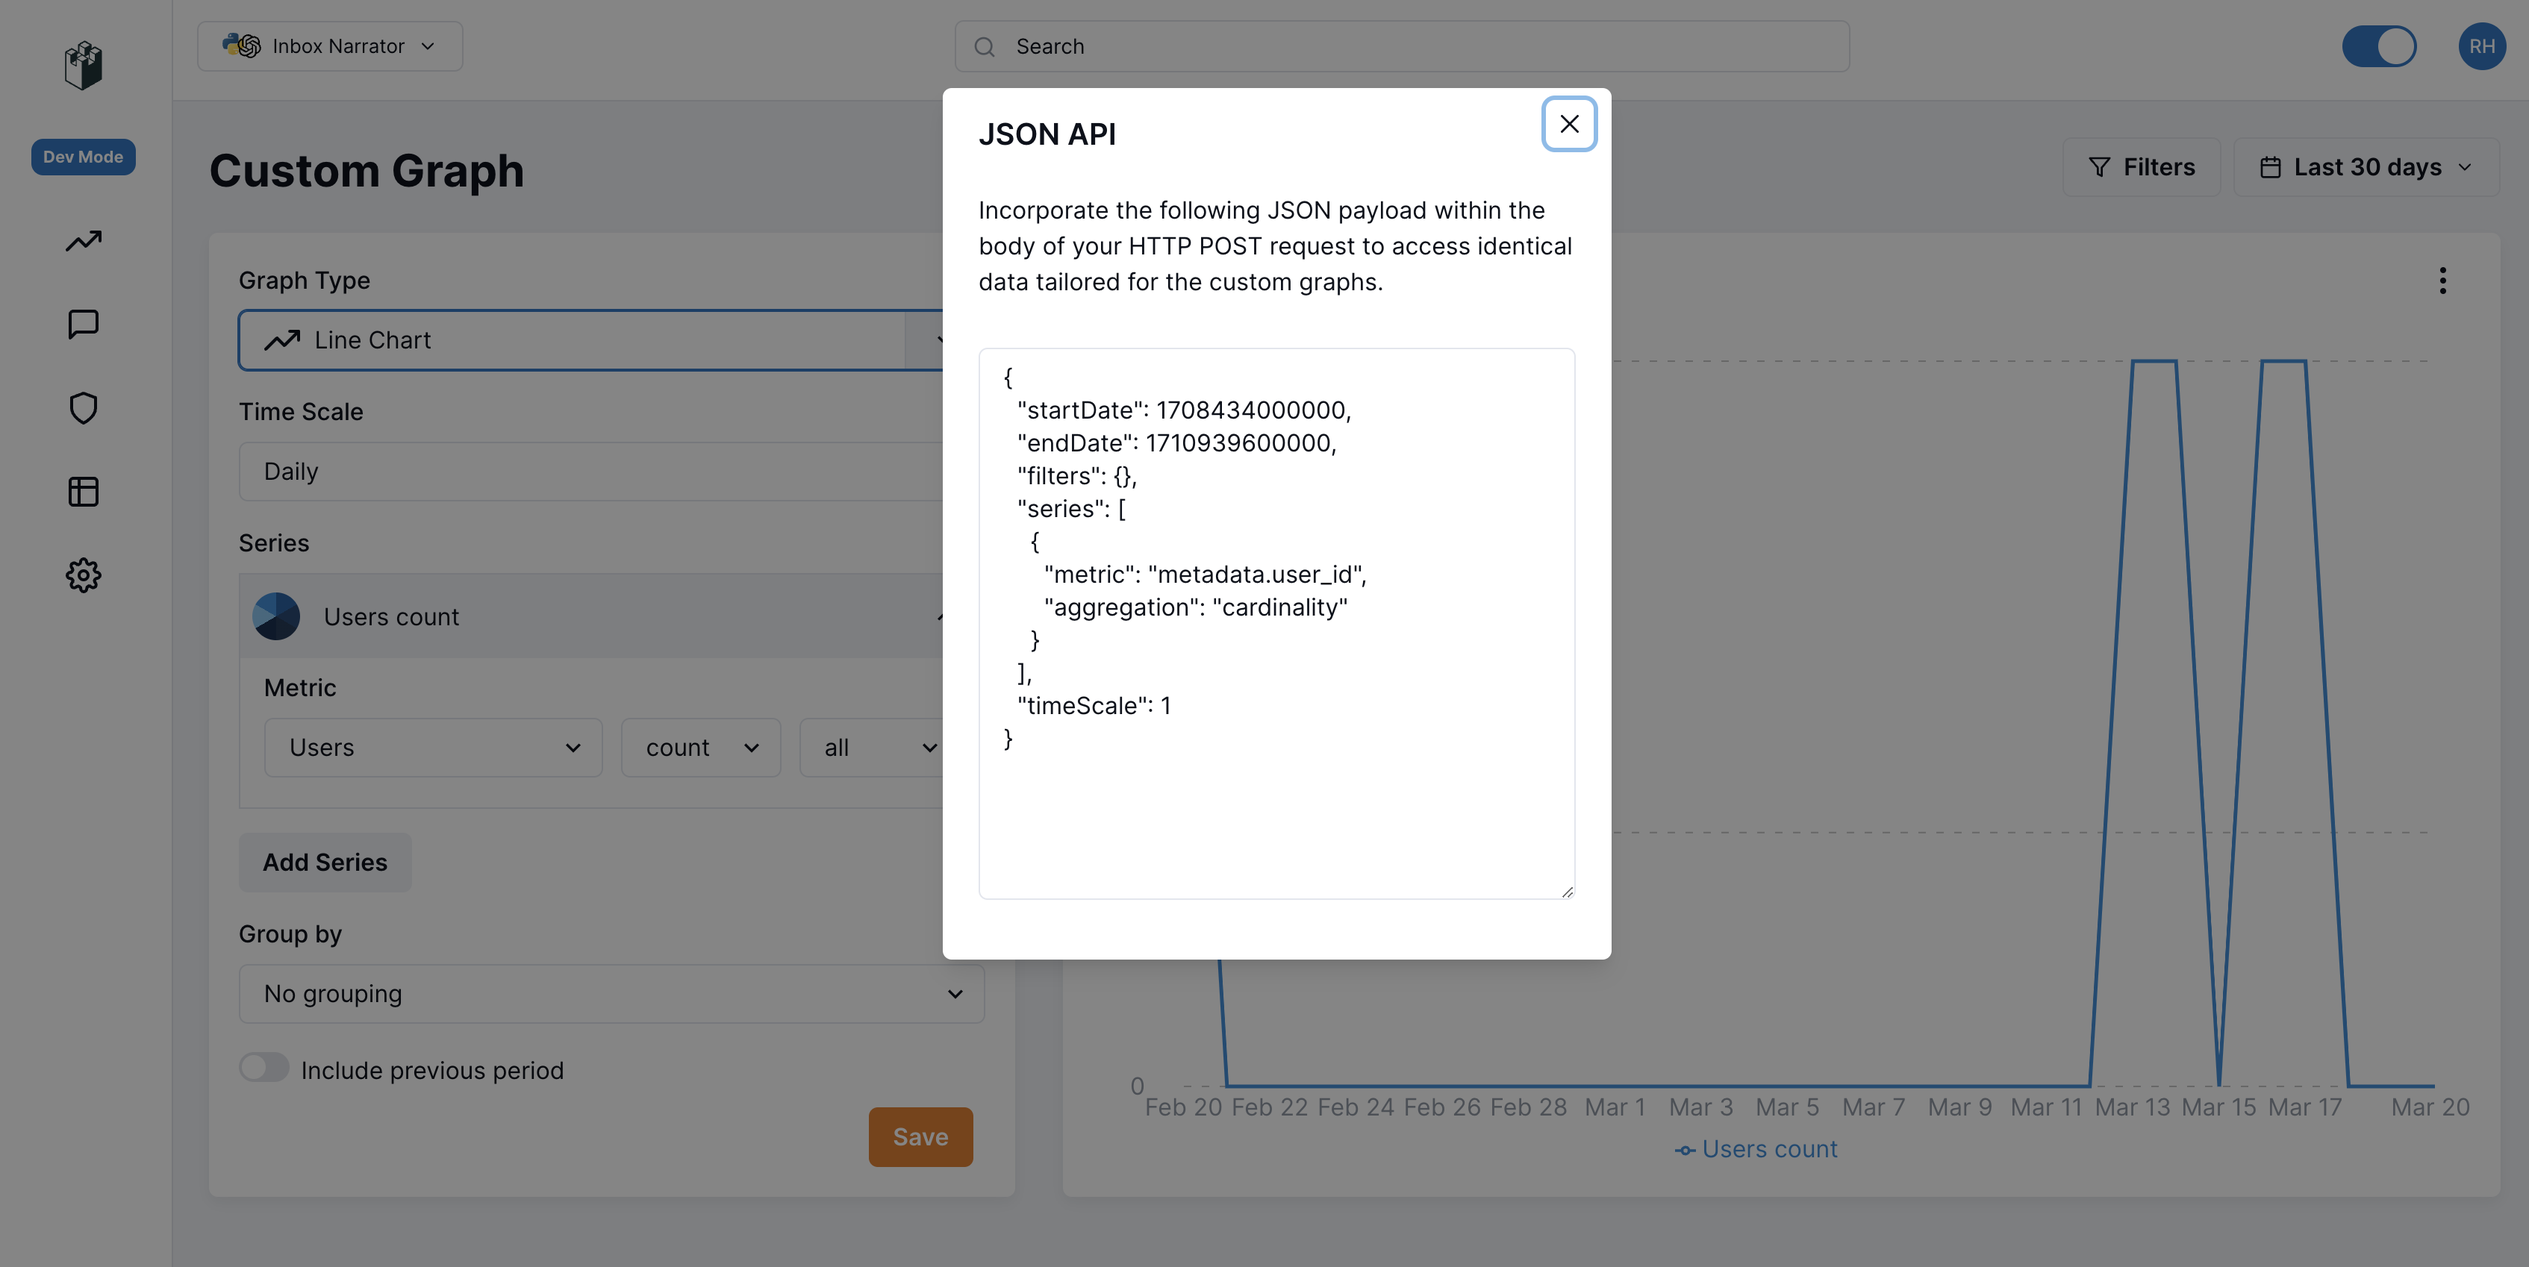
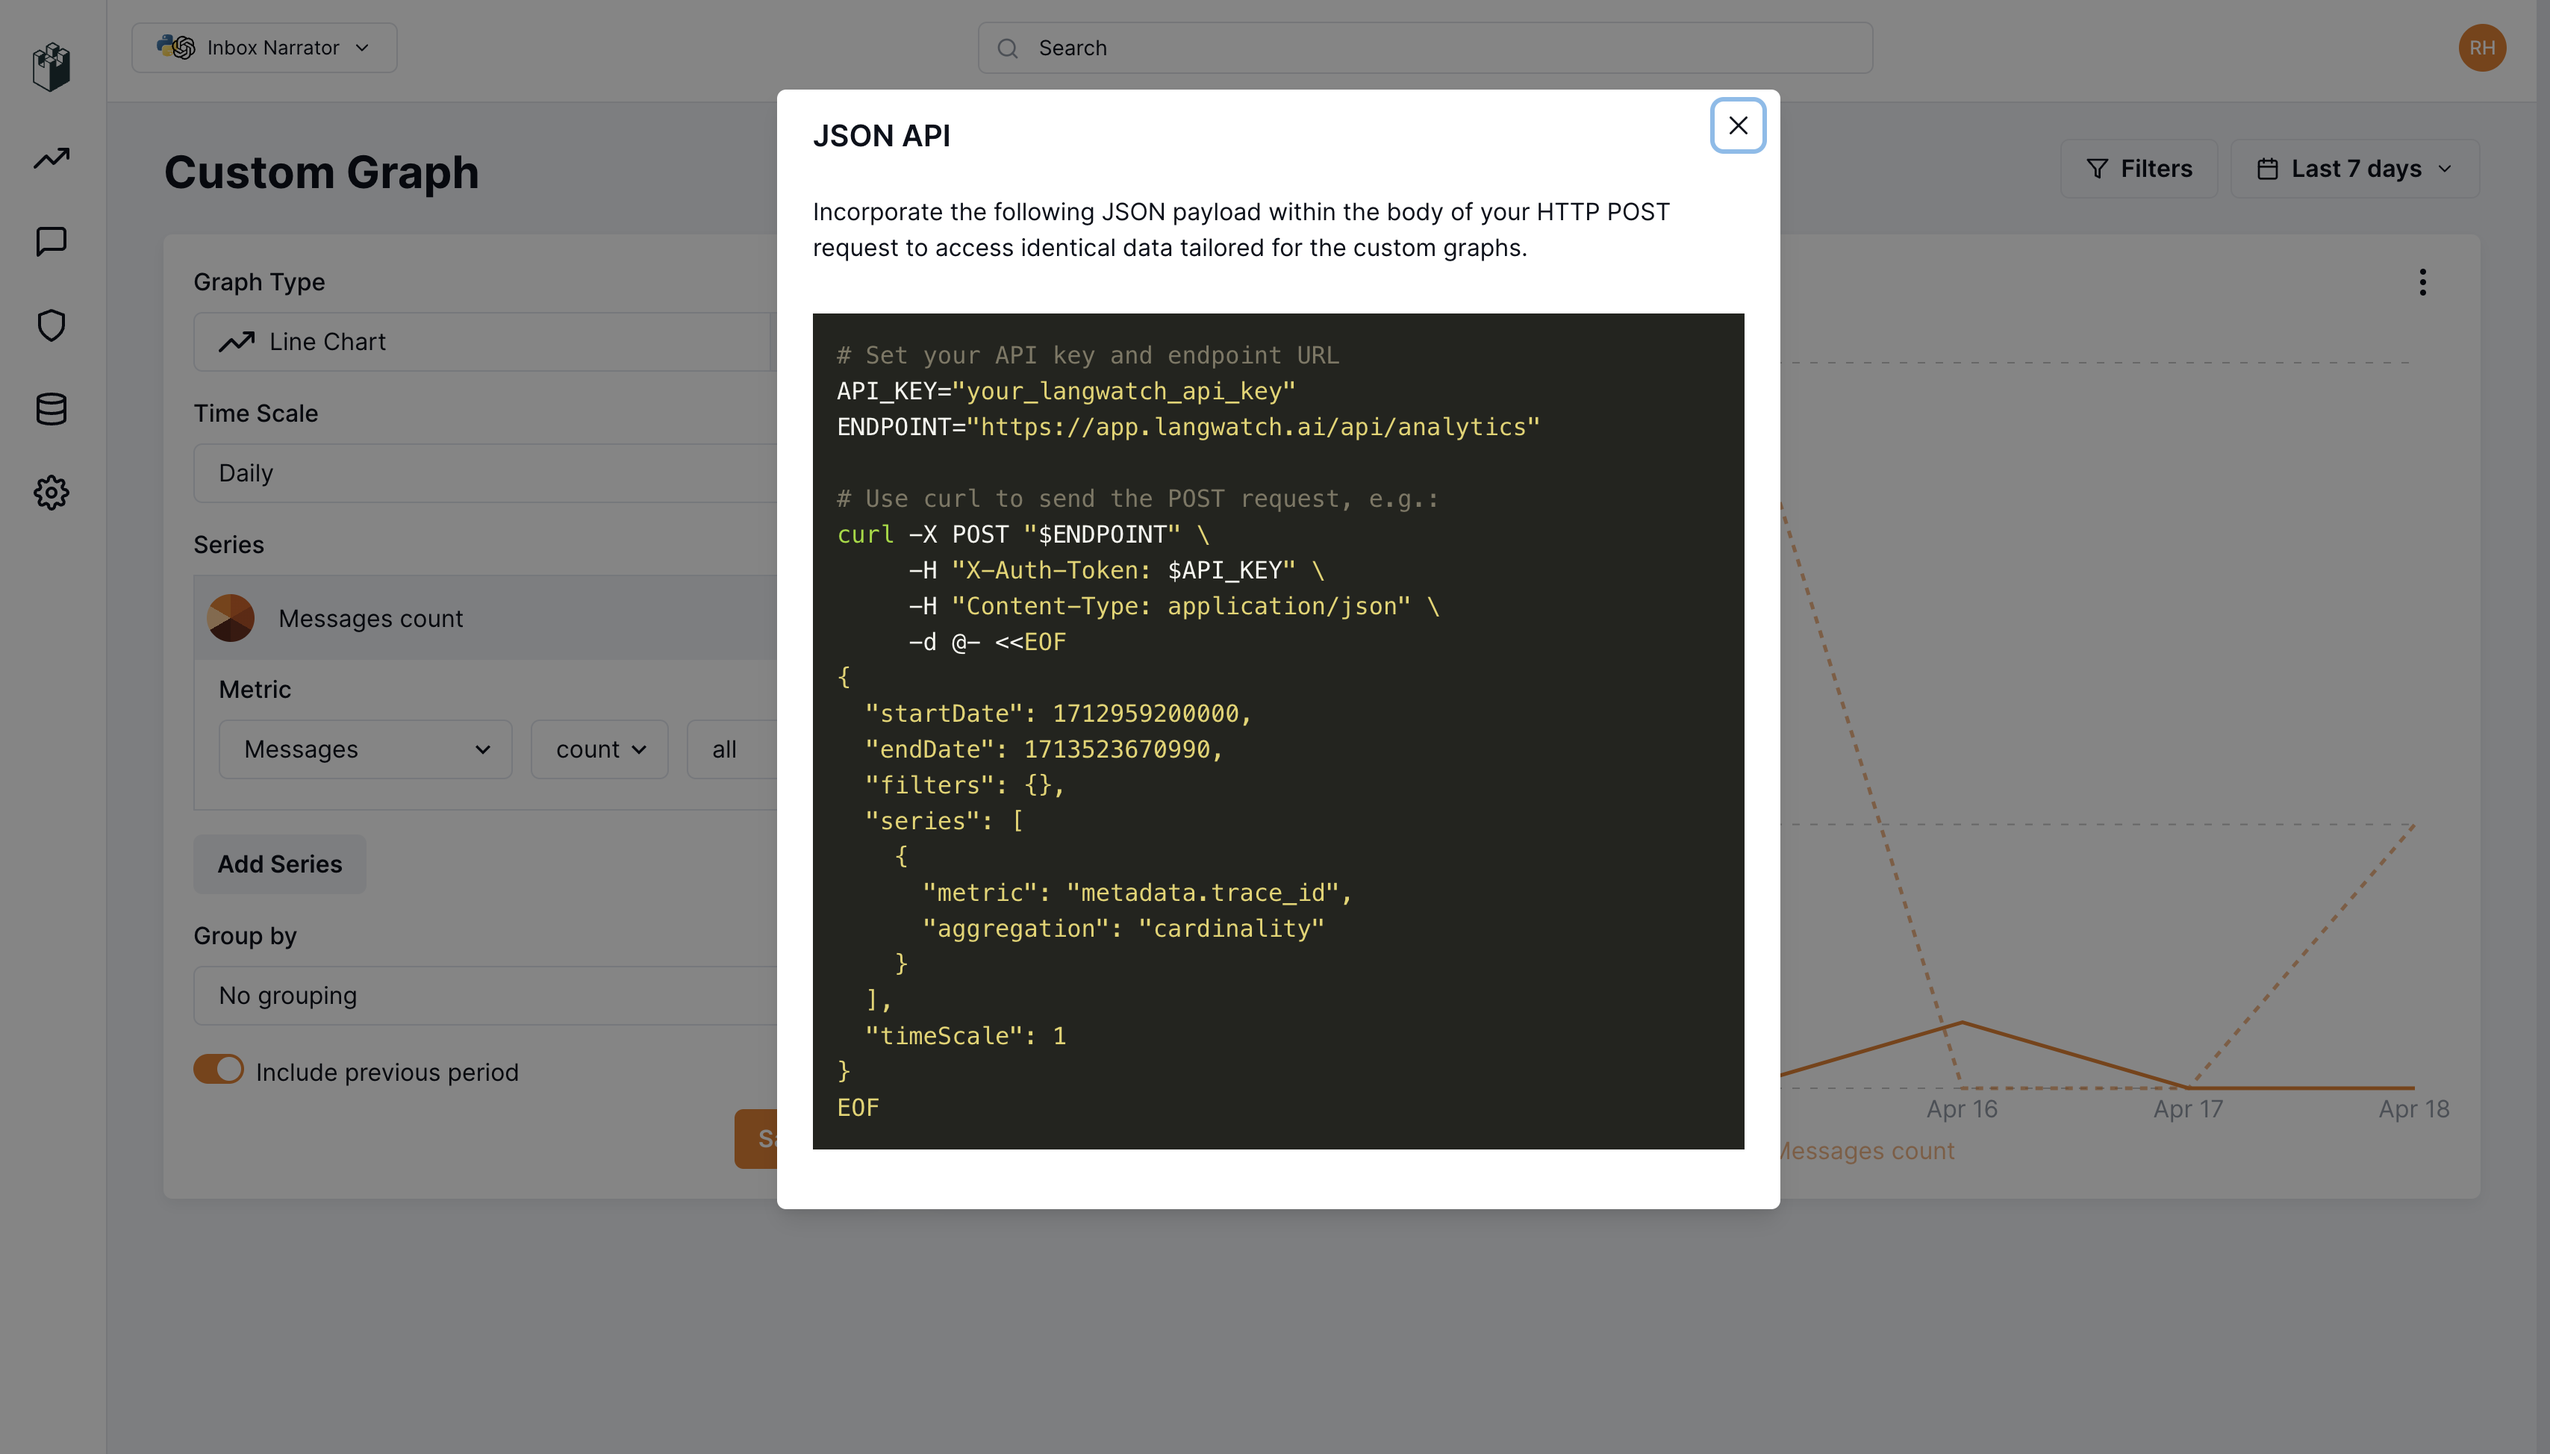
Update custom analytics modal
Update docs image to ref new modal

diff --git a/langwatch/src/pages/[project]/analytics/custom.tsx b/langwatch/src/pages/[project]/analytics/custom.tsx
@@ -114,11 +114,12 @@ import {
 } from "../../../utils/stringCasing";
 import { useRouter } from "next/router";
 import { useFilterParams } from "~/hooks/useFilterParams";
+import { RenderCode } from "~/components/integration-guides/utils/RenderCode";
 
 export interface CustomGraphFormData {
   title?: string;
-  startDate?: Date;
-  endDate?: Date;
+  startDate: Date;
+  endDate: Date;
   graphType?: {
     label: string;
     value: CustomGraphInput["graphType"];
@@ -316,7 +317,7 @@ export default function AnalyticsCustomGraph() {
                       <MoreVertical />
                     </MenuButton>
                     <MenuList>
-                      <MenuItem onClick={jsonModal.onOpen}>Show JSON</MenuItem>
+                      {/* <MenuItem onClick={jsonModal.onOpen}>Show JSON</MenuItem> */}
                       <MenuItem onClick={apiModal.onOpen}>Show API</MenuItem>
                     </MenuList>
                   </Menu>
@@ -332,7 +333,7 @@ export default function AnalyticsCustomGraph() {
           </HStack>
         </VStack>
       </Container>
-      <Modal isOpen={jsonModal.isOpen} onClose={jsonModal.onClose}>
+      <Modal isOpen={jsonModal.isOpen} onClose={jsonModal.onClose} size={"2xl"}>
         <ModalOverlay />
         <ModalContent>
           <ModalHeader>Graph JSON</ModalHeader>
@@ -340,14 +341,13 @@ export default function AnalyticsCustomGraph() {
           <ModalBody>
             <Textarea rows={16}>
               {JSON.stringify(debouncedCustomGraphInput, null, 2)}
-              {/* {JSON.stringify(formData, null, 2)} */}
             </Textarea>
           </ModalBody>
 
           <ModalFooter></ModalFooter>
         </ModalContent>
       </Modal>
-      <Modal isOpen={apiModal.isOpen} onClose={apiModal.onClose}>
+      <Modal isOpen={apiModal.isOpen} onClose={apiModal.onClose} size={"2xl"}>
         <ModalOverlay />
         <ModalContent>
           <ModalHeader>JSON API</ModalHeader>
@@ -358,10 +358,22 @@ export default function AnalyticsCustomGraph() {
               HTTP POST request to access identical data tailored for the custom
               graphs.
             </Text>
-            <Textarea rows={16}>
-              {JSON.stringify(debouncedCustomAPIInput, null, 2)}
-              {/* {JSON.stringify(formData, null, 2)} */}
-            </Textarea>
+            <Box padding={4} backgroundColor={"#272822"}>
+              <RenderCode
+                code={`# Set your API key and endpoint URL
+API_KEY="your_langwatch_api_key"
+ENDPOINT="https://app.langwatch.ai/api/analytics"
+
+# Use curl to send the POST request, e.g.:
+curl -X POST "$ENDPOINT" \\
+     -H "X-Auth-Token: $API_KEY" \\
+     -H "Content-Type: application/json" \\
+     -d @- <<EOF
+${JSON.stringify(debouncedCustomAPIInput, null, 2)}
+EOF`}
+                language="bash"
+              />
+            </Box>
           </ModalBody>
 
           <ModalFooter></ModalFooter>
